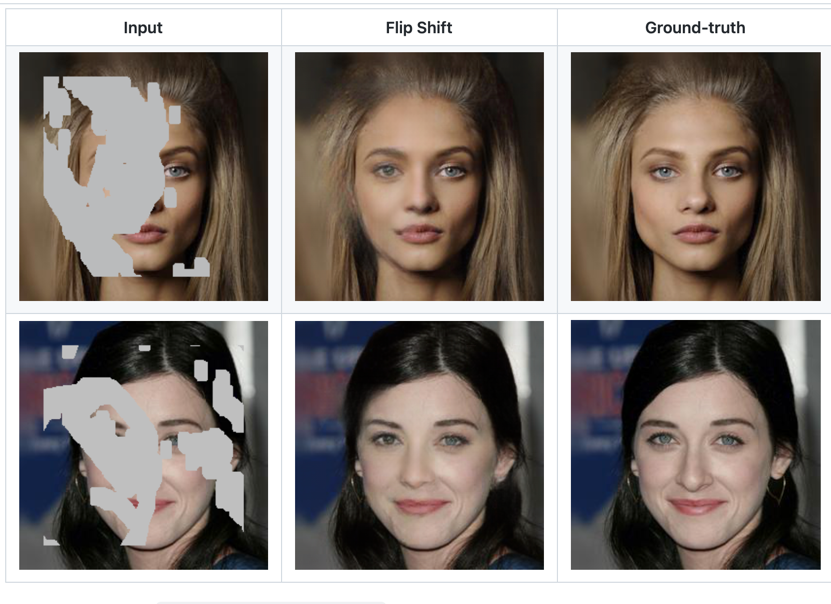
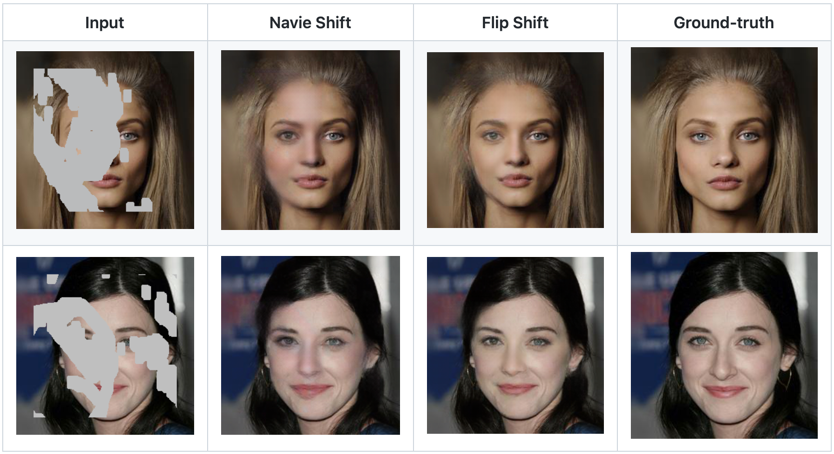
test

diff --git a/_posts/text-process/2021-11-03-transformer.md b/_posts/text-process/2021-11-03-transformer.md
@@ -20,6 +20,13 @@ tags:
 [encoder-process]:http://7568.github.io/images/2021-11-03-transformer/encoder-process.png
 [self-attention-process]:http://7568.github.io/images/2021-11-03-transformer/self-attention-process.png
 [self-attention-process-2]:http://7568.github.io/images/2021-11-03-transformer/self-attention-process-2.png
+[matrix-calculation-of-self-attention]:http://7568.github.io/images/2021-11-03-transformer/matrix-calculation-of-self-attention.png
+[matrix-calculation-of-self-attention-2]:http://7568.github.io/images/2021-11-03-transformer/matrix-calculation-of-self-attention-2.png
+[multi-headed-attention]:http://7568.github.io/images/2021-11-03-transformer/multi-headed-attention.png
+[multi-headed-attention-2]:http://7568.github.io/images/2021-11-03-transformer/multi-headed-attention-2.png
+[multi-headed-attention-3]:http://7568.github.io/images/2021-11-03-transformer/multi-headed-attention-3.png
+[self-attention-result]:http://7568.github.io/images/2021-11-03-transformer/self-attention-result.png
+[self-attention-result-2]:http://7568.github.io/images/2021-11-03-transformer/self-attention-result-2.png
 
 # 简介
 在文本处理中有两个经典的网络模型，一个是基于循环神经网络加上 attention 的 Seq2Seq 和完全基于 attention 的 Transformer。这两个模型在机器翻译中都取得了很好的效果。
@@ -66,7 +73,7 @@ Transformer 整体结构如下：
 
 # 运行过程
 
-现在我们大概了解了 transformer 的整体结构，接下来我们来看一看一个句子是如何从输入一步一步到输出的。
+现在我们大概了解了 transformer 的整体结构，接下来我们来看一看一个句子是如何从输入一步一步到输出，从而研究 ecnoder 和decoder中的各个模块是如何工作的。
 
 首先与常规的NPL处理一样，我们的输入都要经过 embedding 处理，将输入的每个单词变成向量。如下图所示
 
@@ -97,6 +104,46 @@ keys，和Values。其中矩阵<span style='color:#d436eb'>$$W^Q$$</span> , <spa
 - 第四步将 softmax 的结果乘以各自的 Values，得到新的向量。
 - 第五步将第四步的结果全部进行向量相加，得到一个新的向量<span style='color:#ff5ab2'>$$z_1$$</span>，这个<span style='color:#ff5ab2'>$$z_1$$</span>就是 Thinking 经过 self-attention 运算的结果。
 - 当我们计算 Machines 的 self-attention 运算结果的时候，与 Thinking 流程是一样的，只是在计算 Score 的时候，使用的是<span style='color:#d436eb'>$$q_2$$</span>分别乘以<span style='color:#ff8b00'>$$k_1 , k_2 , ... , k_i$$</span>，来计算Thinking相对于各个单词的Score。剩下的流程其实是一样的。
+
+我们可以把上面的步骤转换成矩阵乘法运算，比如我们通过<span style='color:#07d015;'> $$X$$ </span>计算<span style='color:#d436eb'>$$W^Q$$</span> , <span style='color:#ff8b00'>$$W^K$$</span> , <span style='color:#30abff'>$$W^V$$</span>，我们就可以通过下面的方式得到。
+因为卷积运算其实也是矩阵乘法， 所以其实这一步也可以理解成一个特殊卷积核的卷积操作。
+![matrix-calculation-of-self-attention]
+
+于是我们的整个self-attention就可以描述成如下的运算。
+![matrix-calculation-of-self-attention-2]
+
+## 多头注意力机制
+
+在论文[Attention is All You Need.](https://arxiv.org/abs/1706.03762) 中作者使用的是多头注意力机制。当我们知道了self-attention机制之后，再来理解多头注意力机制就很简单了。
+在self-attention中我们使用的是上图的方法得到某一个单词的self-attention的结果，那多头self-attention就是对某一个单词的embedding结果<span style='color:#07d015;'> $$X$$ </span>使用多个不同的<span style='color:#d436eb'>$$W^Q$$</span> , <span style='color:#ff8b00'>$$W^K$$</span> , <span style='color:#30abff'>$$W^V$$</span>来
+分别计算得到<span style='color:#07d015;'> $$X$$ </span>的多个self-attention结果，然后将这些结果拼接起来，再进行一次卷积操作，得到的结果作为最终的<span style='color:#07d015;'> $$X$$ </span>对应的<span style='color:#ff5ab2'>$$Z$$</span>
+如下图所示，对<span style='color:#07d015;'> $$X$$ </span>计算8个self-attention
+![multi-headed-attention]
+
+然后我们把8个self-attention结果拼接起来，然后一起乘以一个矩阵<span style='color:#f29fc6;'> $$W_O$$ </span>最终得到输出<span style='color:#ff5ab2'>$$Z$$</span>，如下图所示
+![multi-headed-attention-2]
+
+于是乎整个过程可以描述成如下所示。在下图中多了一个<span style='color:#30abff'>$$R$$</span>，你可以把它想像成上一个encoder的输出，同时也是下一个encoder的输入。
+同时在整个encoders中只有第一个encoder的输入是需要进行embedding操作的，后面的都不需要。
+![multi-headed-attention-3]
+
+## 注意力理解
+
+接下来我们看看注意力机制最终达到的目的是哈。比如我们的输入是 <span style='color:red'>The animal didn't cross the street because it was too tired </span>，我们想要知道其中的<span style='color:red'>it</span>表示的是啥。
+对于我们人类来说这个问题太简单了，但是对于机器来说确是很难。当我们有了self-attention之后，机器这个问题看上去就有了一些转机。下图是我们的self-attention的效果图。
+![self-attention-result]
+
+图中连线越粗表示相关性越强，我们可以看到，<span style='color:red'>it</span>与<span style='color:red'>The animal</span>的相关性是最强的。
+
+在多头注意力multi-headed-attention中，我们的 <span style='color:red'>it</span> 相对与每一个不同的self-attentin，它要表达的东西不一样，比如下图所示有两个self-attention，对于it连线最粗的分别是<span style='color:red'>The animal</span>和<span style='color:red'>tired</span>，
+虽然虽然每一个self-attention最终的侧重点不一样，但是我们可以理解成不同的self-attention表示的联系不一样，比如<span style='color:red'>it</span>虽然表示的不是<span style='color:red'>tired</span>，但是<span style='color:red'>it</span>显然是与<span style='color:red'>tired</span>有关的。
+或者我们可以将它理解成高维的联系。如下图所示
+![self-attention-result-2]
+
+## 位置编码
+
+在self-attention中，所有的操作都是矩阵乘法，所以我们可以将self-attention理解成特殊的卷积操作，而且是不分顺序的，这与我们在使用之前介绍的[卷积网络](https://7568.github.io/2021/11/15/cnn-seq2seqModel.html) 来操作文本翻译一样，都需要有个位置编码来区分相同句子由于出现的位置不一样，导致句子的意思不一样的情况。
+
 
 更多参考来自于
 - [graykode / nlp-tutorial](https://github.com/graykode/nlp-tutorial/blob/d05e31ec81d56d70c1db89b99ab07e948f7ebc11/5-1.Transformer/Transformer(Greedy_decoder).py)

diff --git a/_posts/images-process/2021-11-11-Shift-Net.md b/_posts/images-process/2021-11-11-Shift-Net.md
@@ -24,6 +24,8 @@ tags:
 
 ![Shift-Net-result]
 
+其中 Navie Shift 是原始版本的效果，Flip Shift 是最新版本的效果，Flip Shift 不仅最终的效果好，而且速度也提升了很大，原理也更简单。
+
 # 模型介绍
 
 首先该模型解决的问题是给一张图像，然后遮住一部分，让模型来预测遮住的部分，学术上叫 image inpainting 。在图像处理上还有一个方向是 Style transfer，
